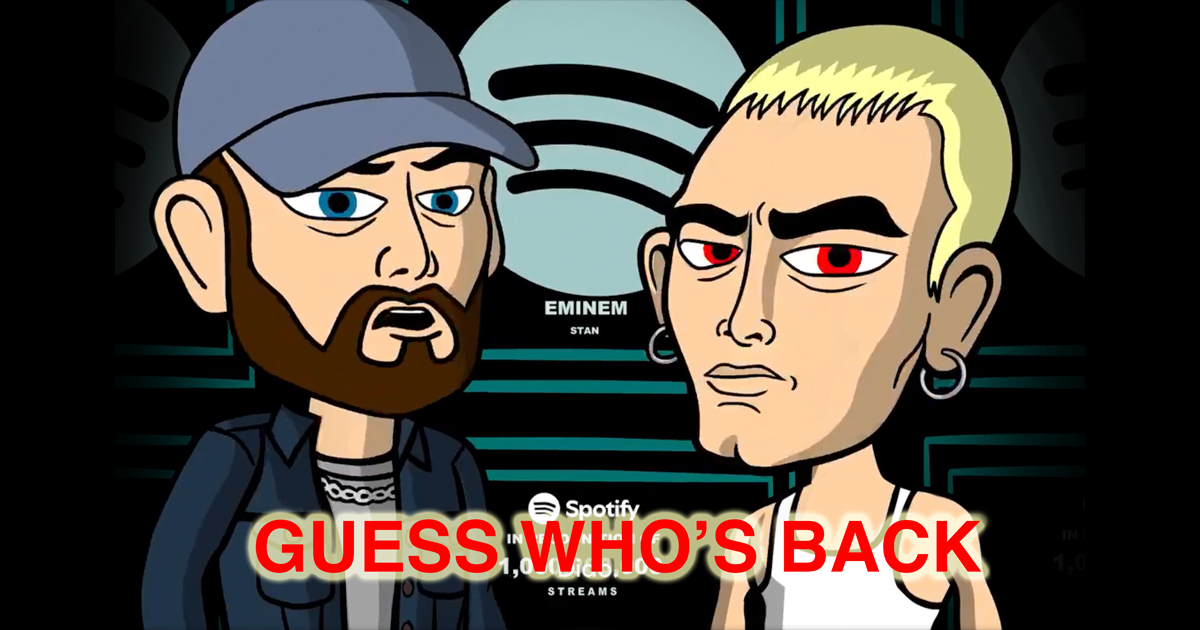
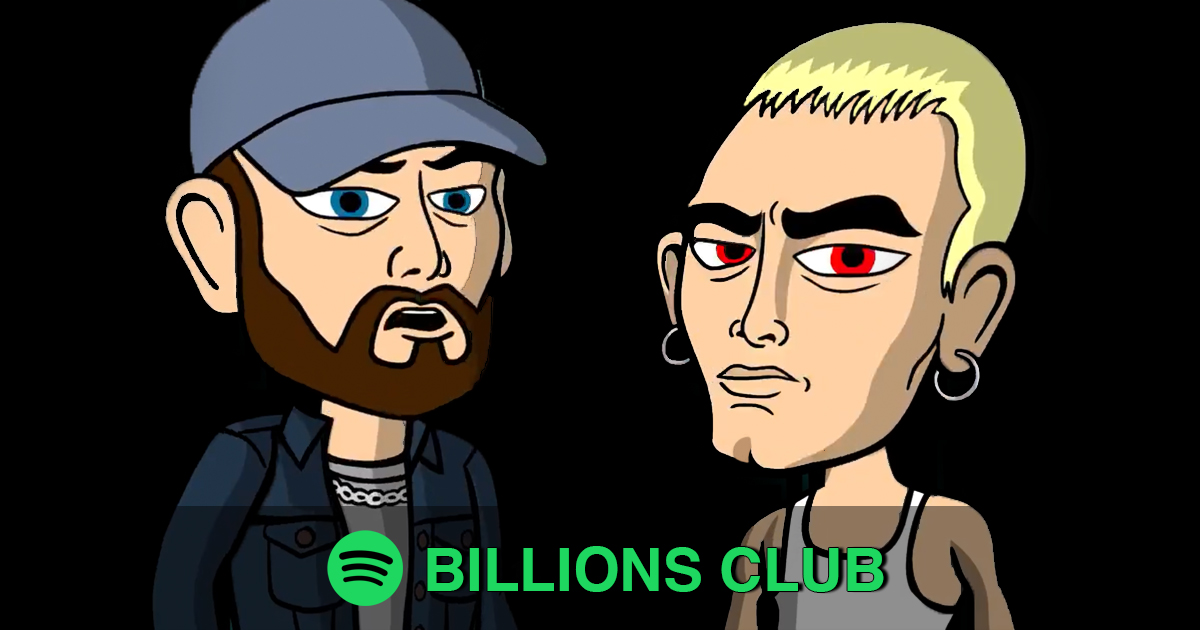
eminem spotify club

diff --git a/news/eminem-joins-spotifys-billions-club.html b/news/eminem-joins-spotifys-billions-club.html
@@ -253,7 +253,9 @@
 
 			<p>Spotify and Eminem have released a new comedy short featuring Eminem himself alongside the animated version of Slim Shady from the short-lived 2000s animated series <em>The Slim Shady Show</em>.</p>
 
-			<p>The short celebrates Eminem joining Spotify&rsquo;s Billions Club, a collection of songs that have each surpassed one billion streams on the platform. The milestone recognises some of Spotify&rsquo;s most-streamed tracks and is celebrated with a commemorative plaque for the artists.</p>
+			<p>The short is part of Spotify's Billions Club series, in which selected artists receive their own dedicated episode. Previous episodes have featured exclusive live performances and mini-documentaries, but Eminem decided to do things a little differently.</p>
+
+			<p>The announcement of Eminem joining the club was accompanied by a photo of the rapper surrounded by 14 plaques (shown above), each representing a song that has surpassed one billion streams on the platform. The milestone also makes him the first artist to have songs surpassing one billion streams across four different decades.</p>
 
 			<p>Watch the new short below.</p>
 
